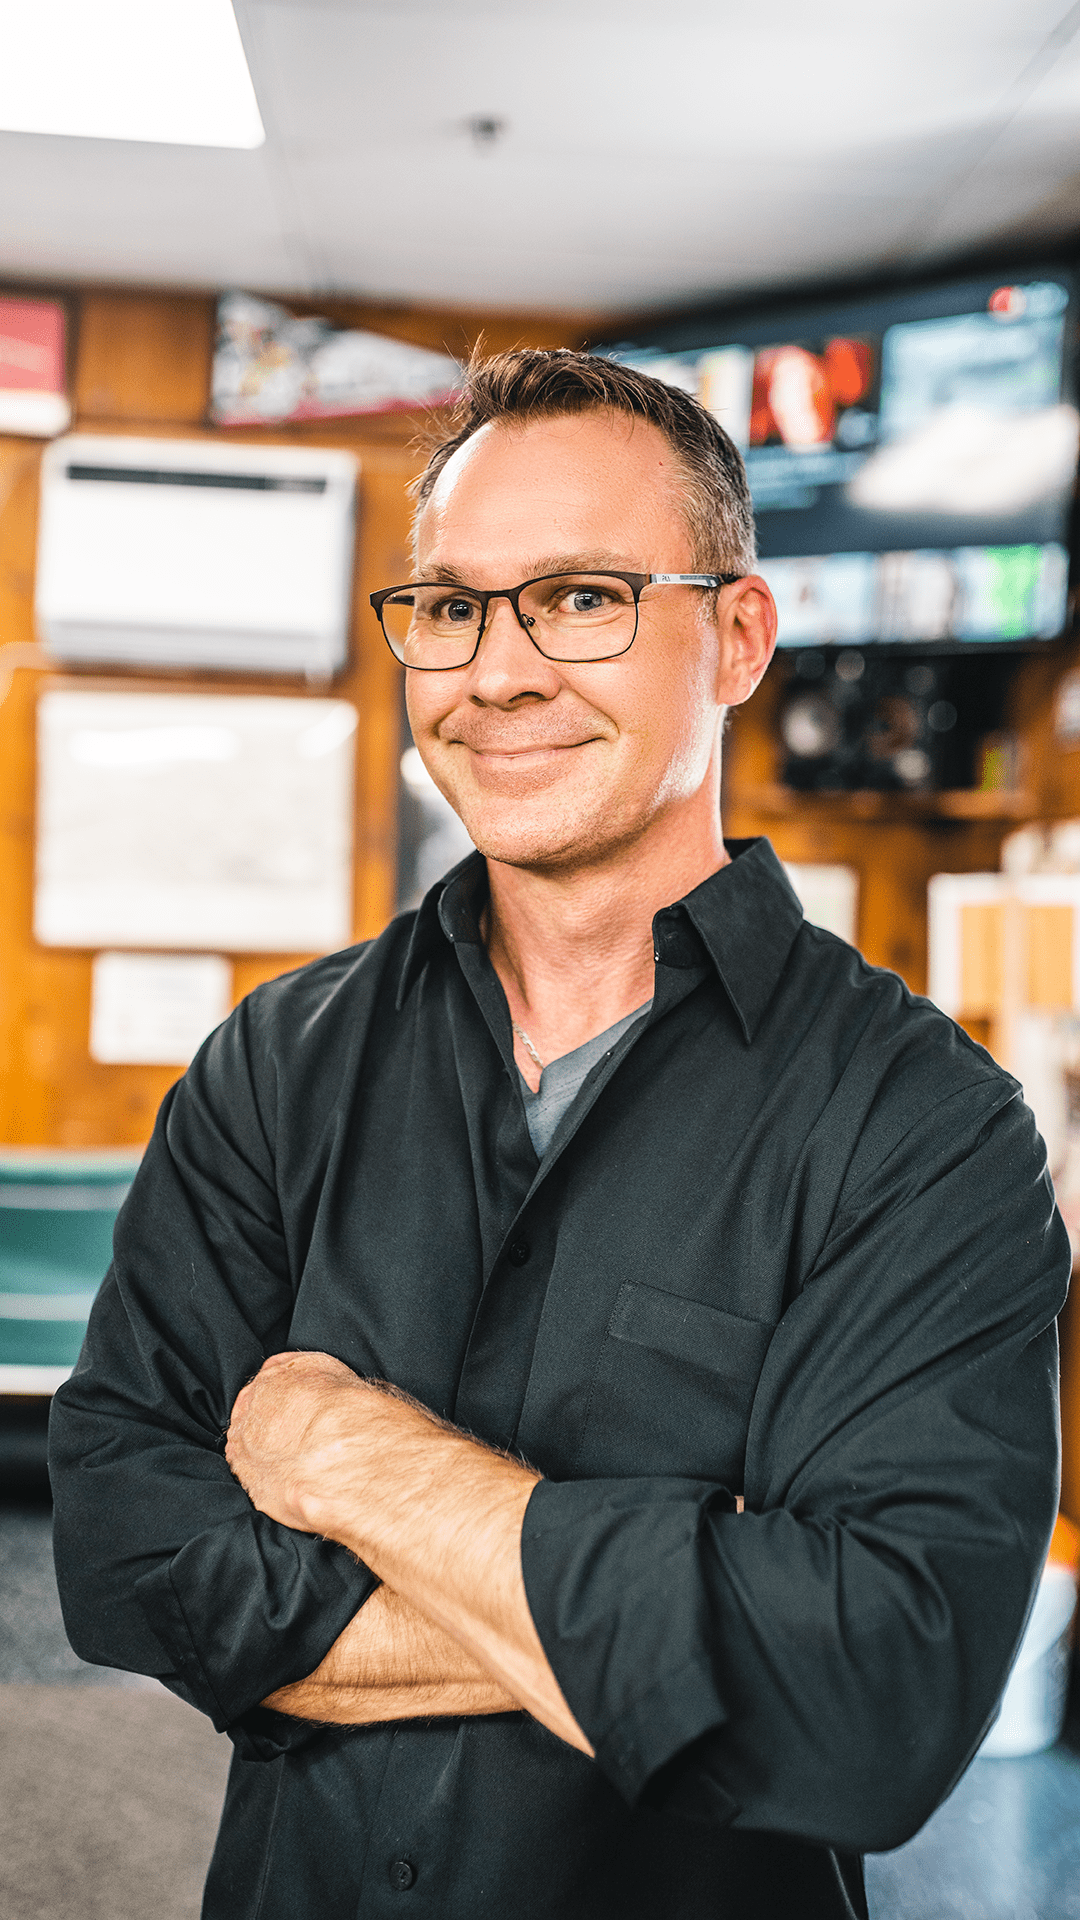
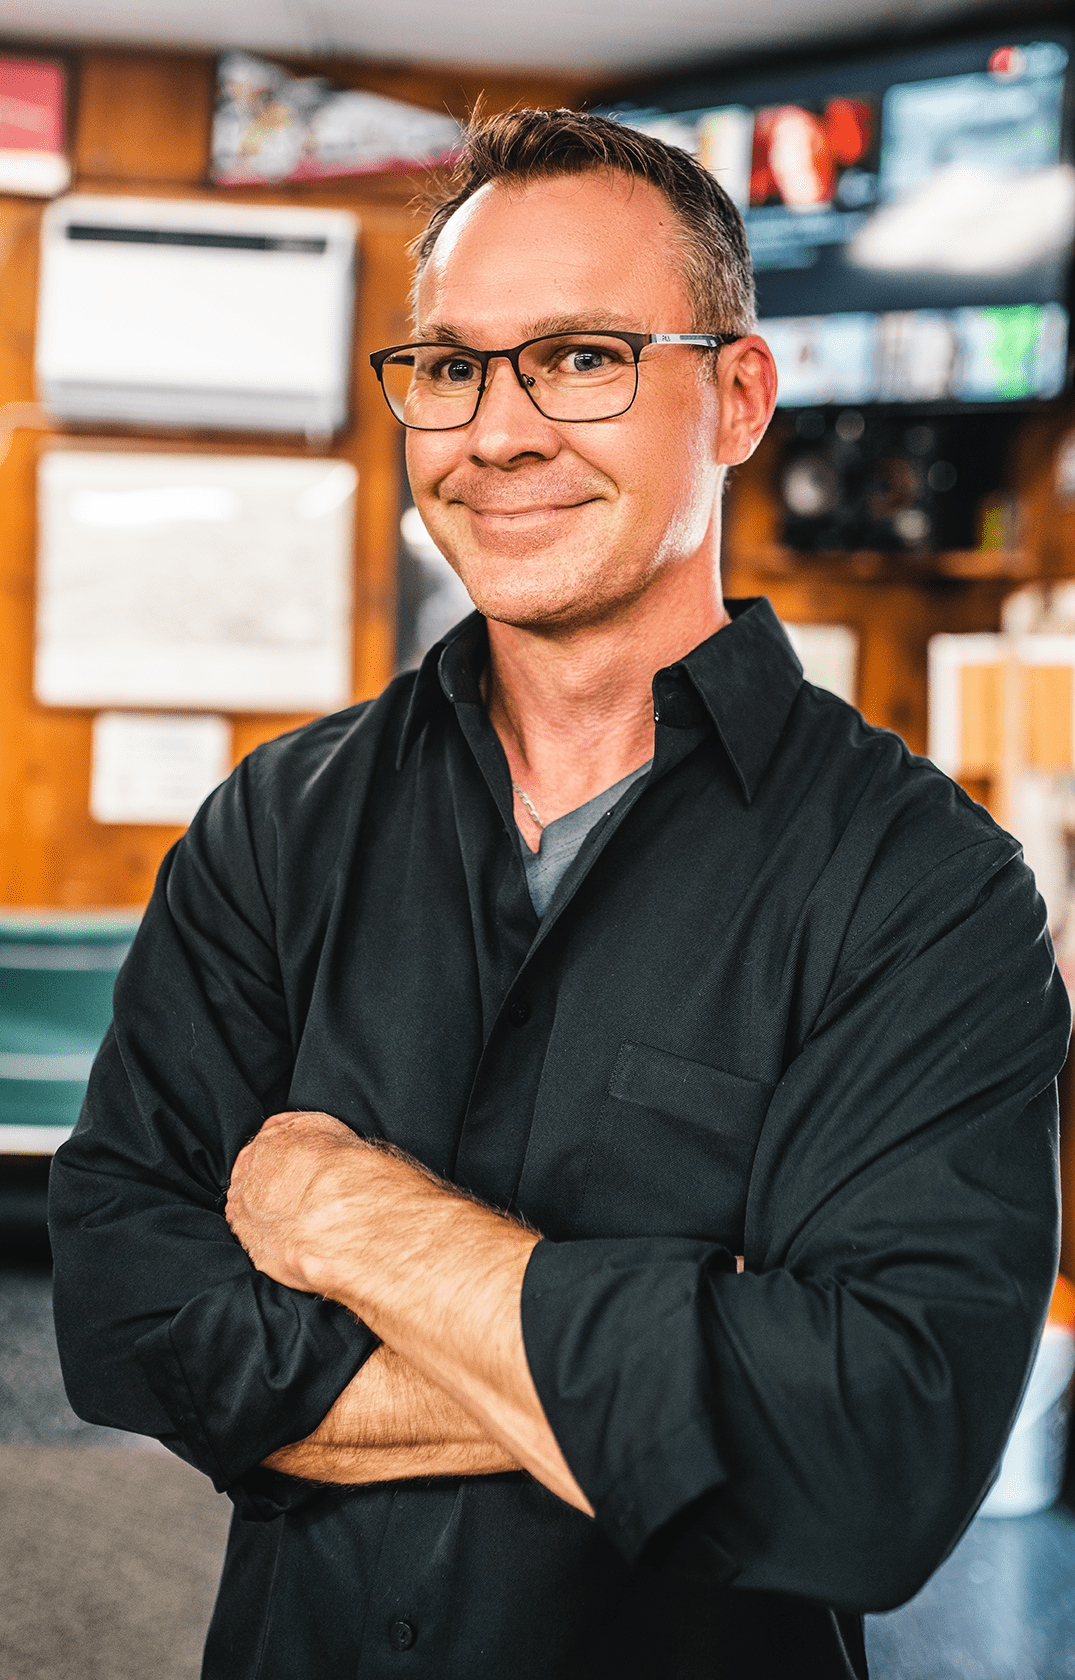
Added Amy picture

diff --git a/style.css b/style.css
@@ -301,8 +301,8 @@ a:hover {
 .service-detail {
     font-size: 15px;
 }
-/* .appointment-button {
-    margin: 2em 0 3em 2em;
+.appointment-button {
+    margin-top: 1rem;
     padding: 1rem;
     width: 300px;
     border-style: solid;
@@ -313,7 +313,12 @@ a:hover {
     background-color: #594D4D;
     color: #FFF;
     font-family: var(--body-fonts);
-} */
+}
+.appointment-button:hover {
+    color: white;
+    transition: 0.2s ease-in;
+    transform: scale(1.1);
+}
 
 
 .barber-cards{
@@ -333,8 +338,8 @@ a:hover {
 }
 
 .barber-img{
-    width: 300px;
-    height: 450px;
+    width: 320px;
+    height: 500px;
     margin: 0rem 1.5rem;
     border-style: var(--border-style);
     border-width: var(--border-width);
@@ -419,7 +424,7 @@ footer {
     justify-content: center;
     color: var(--text-color);
     font-family: var(--body-fonts);
-    margin: 5rem 13rem 0rem 13 rem; 
+    margin: 5rem 13rem 0rem 13rem; 
     font-size: 2rem;
     line-height: 2.5rem;
     text-indent: 5rem;

diff --git a/mediaqueries.css b/mediaqueries.css
@@ -4,14 +4,16 @@
     .about-container {
         margin: 12rem 0em 0em 12em;
     }
-    .barber-img {
-        width: 400px;
-    }
+   
     .services-container {
         margin: 1rem 15rem 9rem 15rem;
     }
     .closing-header-image {
         height: 100%;
+    }
+    .barber-img {
+        width: 350px;
+        height: 500px;
     }
    
     .learn-more-container {
@@ -20,6 +22,10 @@
     .contact-info {
         text-align: center;
         
+    }
+    .barber-cards{
+        justify-content: space-evenly;
+       
     }
 }
 @media screen and (max-width: 1080px){
@@ -197,7 +203,7 @@
     }
     .barber-img {
         width: 50%;
-        height: 70%;
+        height: 10%;
     }
  
     .contact-container {
@@ -227,6 +233,7 @@
     }
     .about-paragraph {
         margin: 1rem;
+        font-size: 15px;
     }
     .award-cards {
         margin: 0;

diff --git a/about.html b/about.html
@@ -44,14 +44,14 @@ and have been voted Best of 417 numerous times. · We have been voted “best ba
         <div class="award-cards">
            
             <div class="award-card">
-                    <img class="award-img" src="/imgs/Best-of-MSU.png" alt="">
+                    <img class="award-img" src="/imgs/Best-of-MSU-min.png" alt="">
                   
             </div>
             <div class="award-card">
-                <img class="award-img" src="/imgs/417-mag.png" alt="">
+                <img class="award-img" src="imgs/news-leader-min.png" alt="">
             </div>
             <div class="award-card">
-                <img class="award-img" src="/imgs/news-leader.png" alt="">
+                <img class="award-img" src="/imgs/417-mag.png" alt="">
             </div>
         </div>
            

diff --git a/index.html b/index.html
@@ -79,6 +79,7 @@
              <div >
                 <h1 class="service">* Cash Only</h1>
              </div>
+             <button onclick="document.location= 'https://outlook.office365.com/owa/calendar/WalnutStreetBarberShop1@walnutstreetbarbershop.onmicrosoft.com/bookings/'" class="appointment-button">Make Appointment</button>
          </div>
          
     </section>
@@ -95,7 +96,7 @@
                 <p>Tuesday-Saturday</p>
             </div>
             <div class="barber-card">
-                    <img class="barber-img" src="/imgs/Russ-headshot-min.png" alt="">
+                    <img class="barber-img" src="/imgs/amy.jpeg" alt="">
                     <h1>Amy</h1>
                     <p>Wed, Thurs, Fri</p>
             </div>
